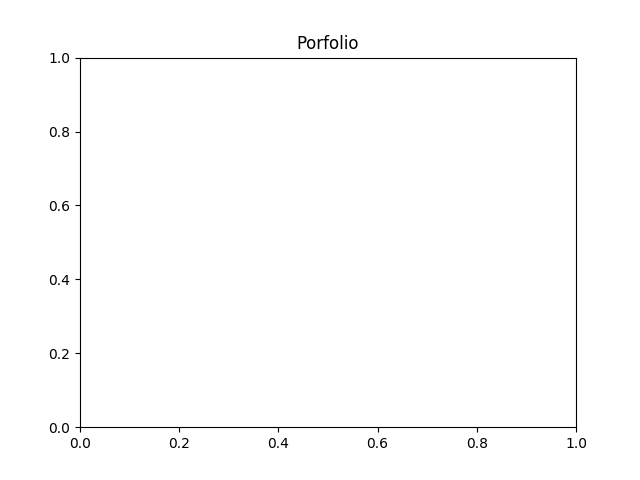
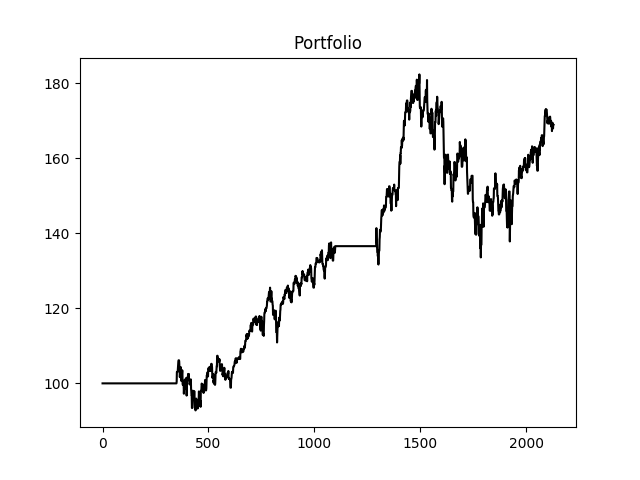
mistake with last commit

diff --git a/src/Portfolio.cpp b/src/Portfolio.cpp
@@ -255,10 +255,11 @@ void Portfolio::Plot()
 		tmp=tmp->next;
    }
 
-	plt::plot(x,y, "k-",x,z,"r-");
-	plt::show();	
-	plt::title("Porfolio");
+	plt::plot(x,y, "k-");
+	
+	plt::title("Portfolio");
 	plt::save("./portfolio.png");
+	plt::show();
 }
 
 Portfolio::~Portfolio() {
